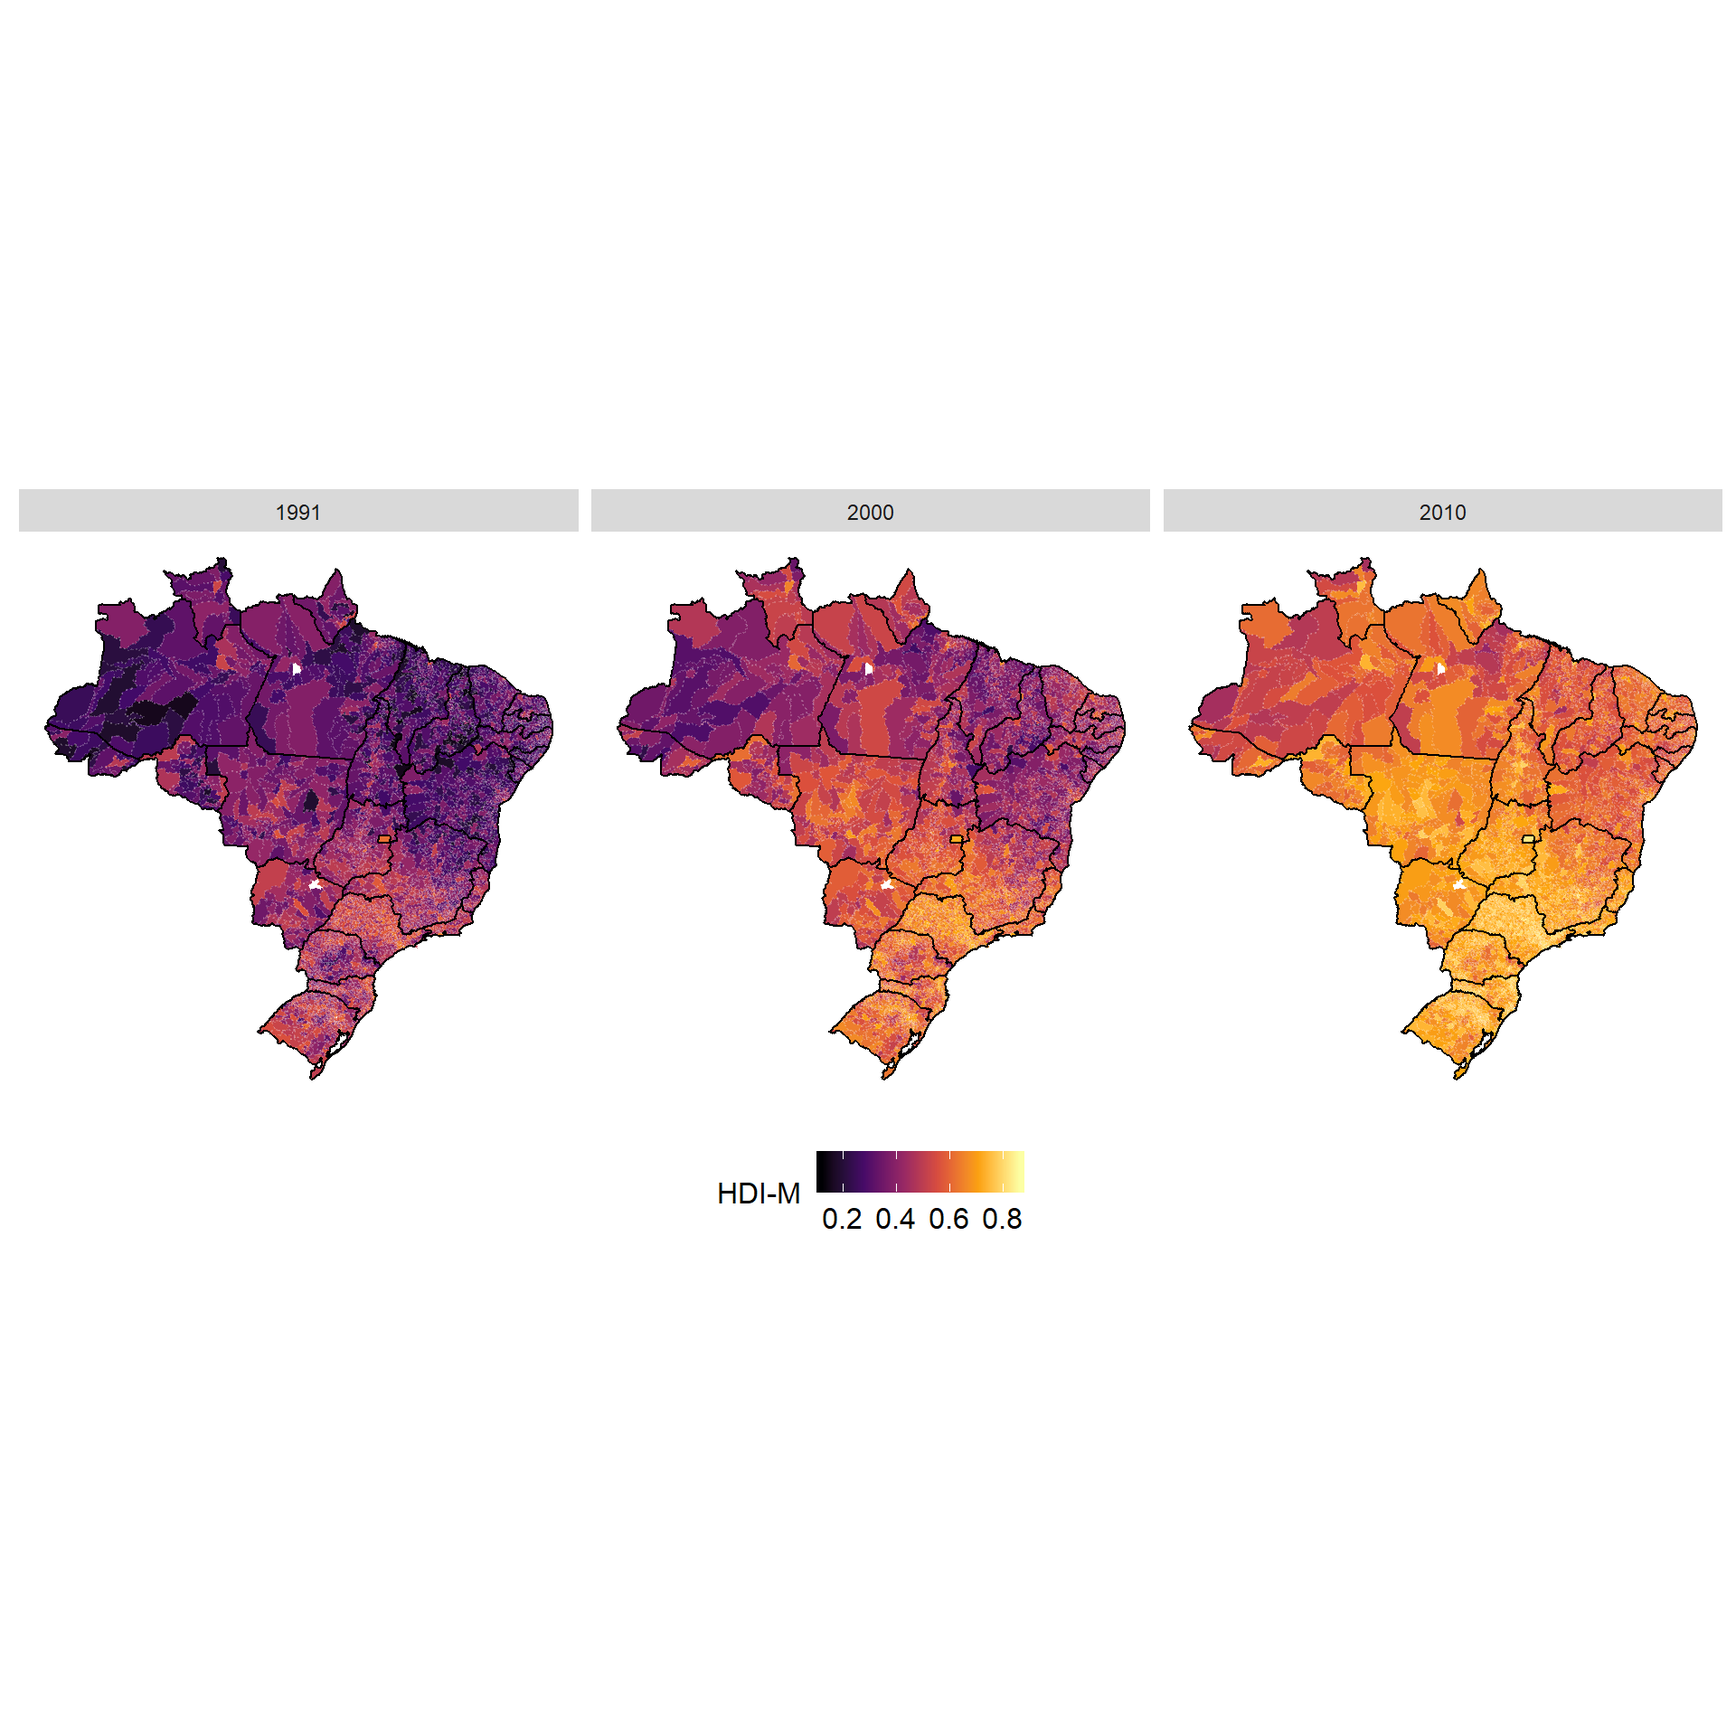
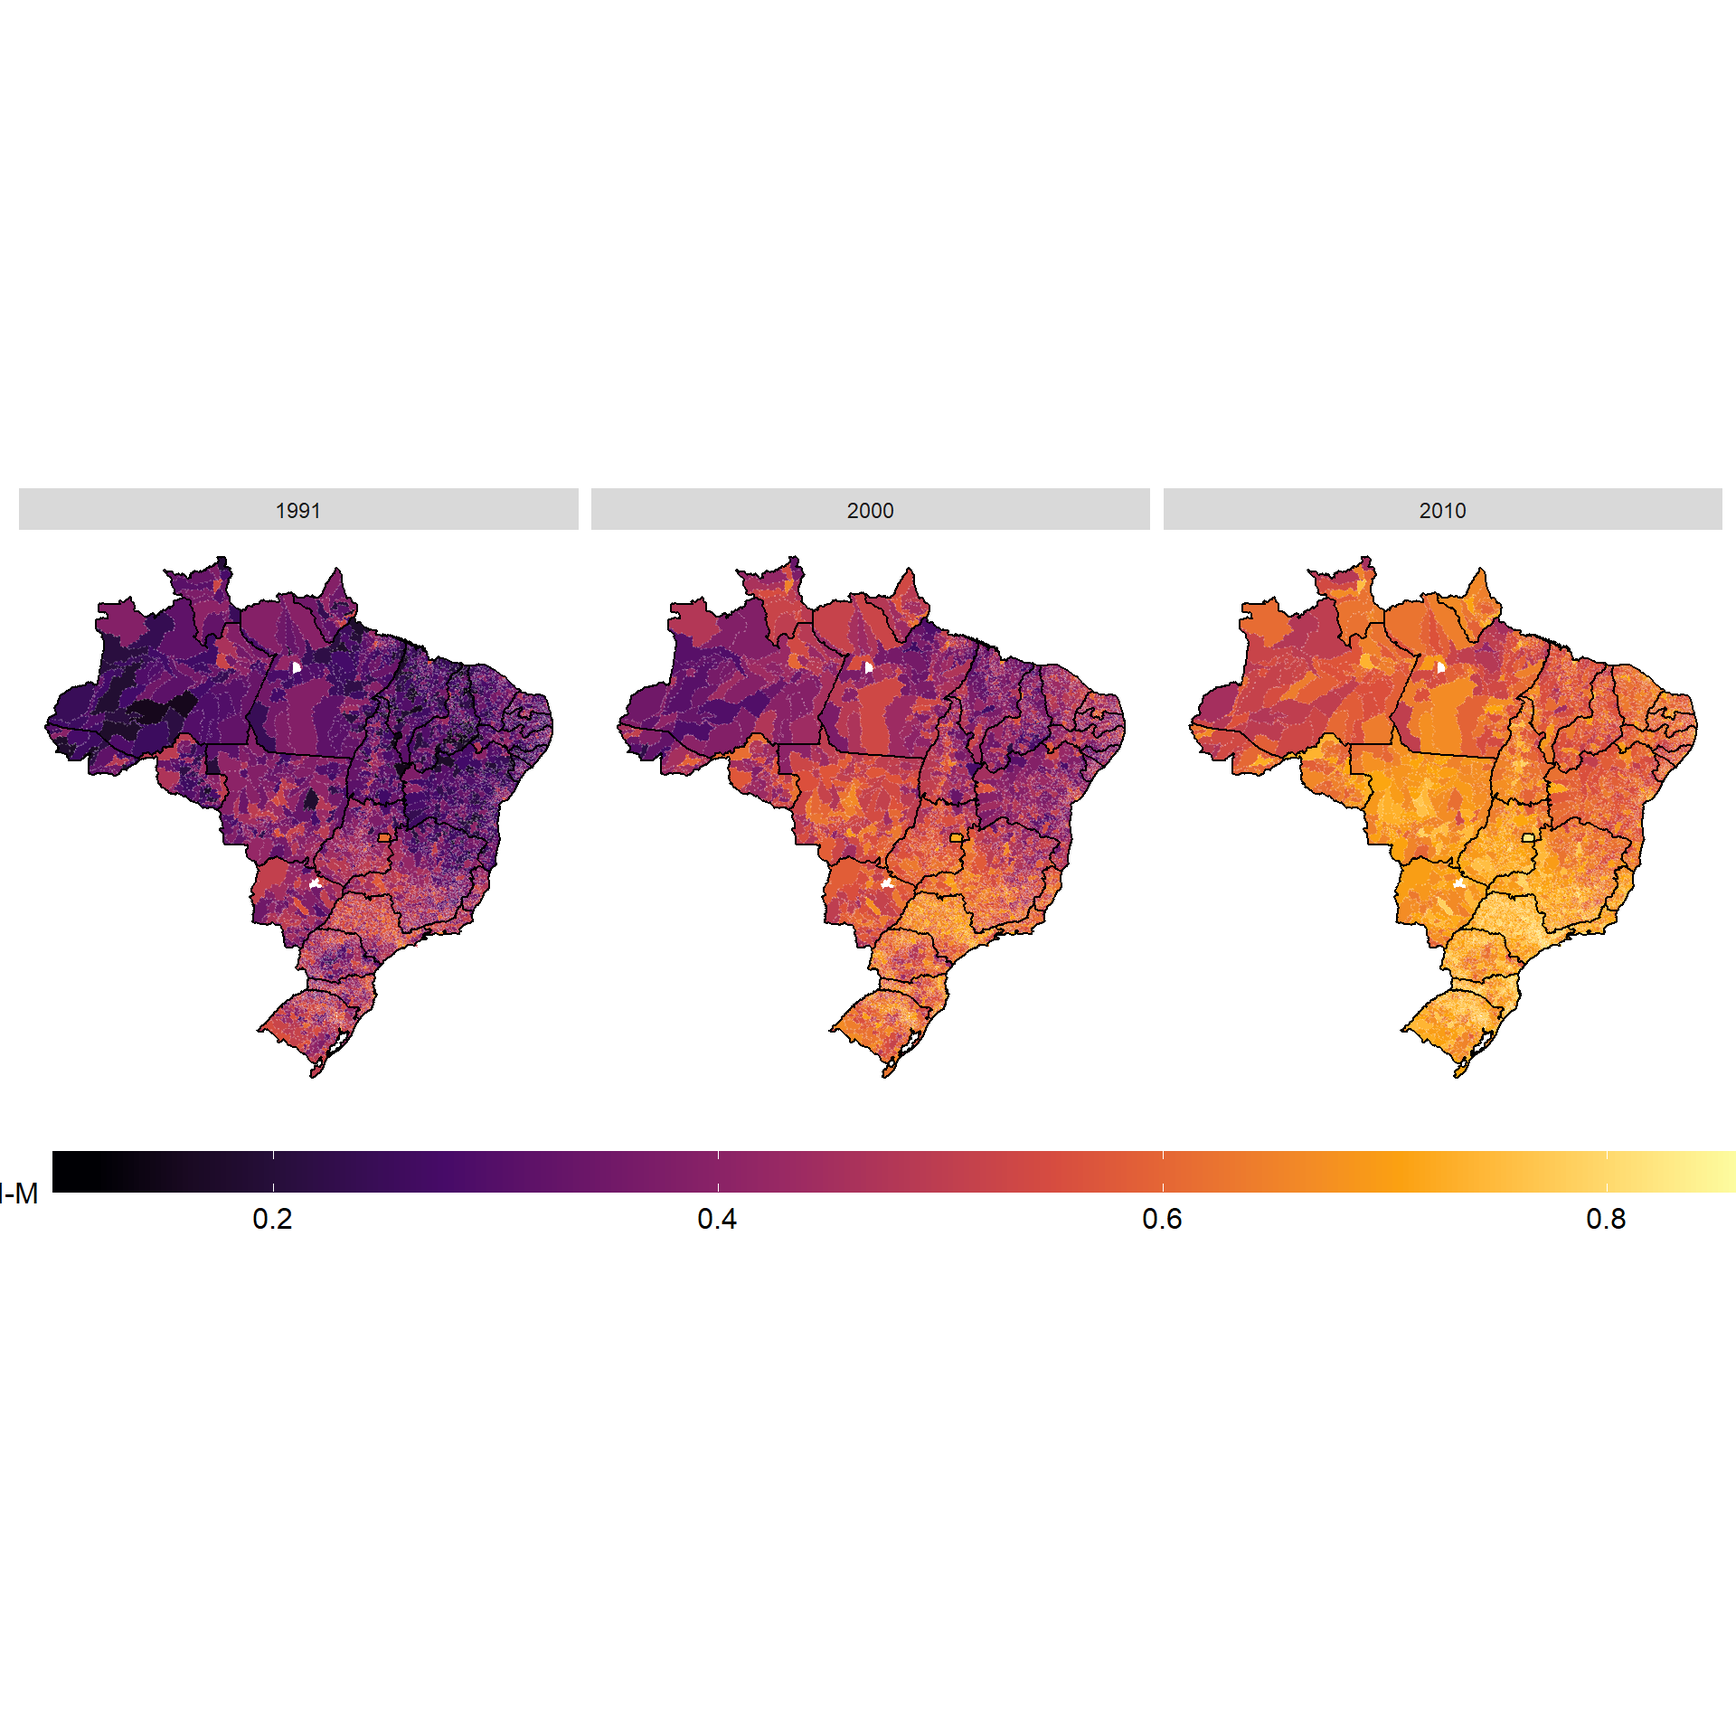
updating...

diff --git a/public/1969/12/31/distribution-of-brazilian-population-2019/index.html b/public/1969/12/31/distribution-of-brazilian-population-2019/index.html
@@ -1,8 +1,82 @@
----
-title: "Distribution of brazilian population (2019)"
-date: 03
----
+<!DOCTYPE html>
+<html lang="en-us">
+  <head>
+    <meta charset="utf-8">
+<meta name="viewport" content="width=device-width, initial-scale=1.0">
+<meta name="generator" content="Hugo 0.64.1" />
 
+
+<title>Distribution of brazilian population (2019) - Rony Coelho</title>
+<meta property="og:title" content="Distribution of brazilian population (2019) - Rony Coelho">
+
+
+  <link href='/favicon.ico' rel='icon' type='image/x-icon'/>
+
+
+
+  
+
+
+
+
+
+
+
+
+<link href='//cdnjs.cloudflare.com/ajax/libs/highlight.js/9.12.0/styles/github.min.css' rel='stylesheet' type='text/css' />
+
+
+
+<link rel="stylesheet" href="/css/fonts.css" media="all">
+<link rel="stylesheet" href="/css/main.css" media="all">
+
+
+
+  </head>
+  <body>
+    <div class="wrapper">
+      <header class="header">
+        <nav class="nav">
+  <a href="/" class="nav-logo">
+    <img src="/images/logo.png"
+         width="50"
+         height="50"
+         alt="Logo">
+  </a>
+
+  <ul class="nav-links">
+    
+    <li><a href="/">Home</a></li>
+    
+    <li><a href="/about/">About</a></li>
+    
+    <li><a href="/mypublications/">Publications</a></li>
+    
+    <li><a href="https://github.com/ronycoelho">GitHub</a></li>
+    
+    <li><a href="http://buscatextual.cnpq.br/buscatextual/visualizacv.do?id=K4454705J6">CV</a></li>
+    
+  </ul>
+</nav>
+
+      </header>
+
+
+<main class="content" role="main">
+
+  <article class="article">
+    
+    <span class="article-duration">1 min read</span>
+    
+
+    <h1 class="article-title">Distribution of brazilian population (2019)</h1>
+
+    
+    <span class="article-date"></span>
+    
+
+    <div class="article-content">
+      
 
 
 <pre class="r"><code>knitr::opts_chunk$set(echo = TRUE, warning=F,  message=FALSE)</code></pre>
@@ -64,3 +138,47 @@ ggplot(data = dados_brasil) +
 </div>
 </div>
 </div>
+
+    </div>
+  </article>
+
+  
+
+
+</main>
+
+      <footer class="footer">
+        <ul class="footer-links">
+          <li>
+            <a href="/index.xml" type="application/rss+xml" target="_blank">RSS feed</a>
+          </li>
+          <li>
+            <a href="https://gohugo.io/" class="footer-links-kudos">Made with <img src="/images/hugo-logo.png" alt="Img link to Hugo website" width="22" height="22"></a>
+          </li>
+        </ul>
+      </footer>
+
+    </div>
+    
+
+
+
+<script src="//cdnjs.cloudflare.com/ajax/libs/highlight.js/9.12.0/highlight.min.js"></script>
+
+
+
+<script src="//cdnjs.cloudflare.com/ajax/libs/highlight.js/9.12.0/languages/r.min.js"></script>
+<script src="//cdnjs.cloudflare.com/ajax/libs/highlight.js/9.12.0/languages/yaml.min.js"></script>
+<script>hljs.configure({languages: []}); hljs.initHighlightingOnLoad();</script>
+
+
+
+    
+<script src="/js/math-code.js"></script>
+<script async src="//cdnjs.cloudflare.com/ajax/libs/mathjax/2.7.5/MathJax.js?config=TeX-MML-AM_CHTML"></script>
+
+
+    
+  </body>
+</html>
+

diff --git a/public/index.html b/public/index.html
@@ -61,7 +61,13 @@
 
 
 <main class="content" role="main">
-  <h5 class="note"><span>Hey there, this is my personal website. Welcome! It works like a Portfolio. Here I am publishing some of my academic works, but not only this. I am also posting some notes, curiosities and things of personal interest that can have no much sense without context. Anyway, if you would like to know more and contact me, please, feel free: coelhorgs@yahoo.com.br <span></h5>
+  <style>
+body {
+text-align: justify}
+</style>
+  <h5 class="note"><span>Hey there, this is my personal website. Welcome! It works as a Portfolio. Here I am publishing some of my academic works, but not only. I am also posting some notes, curiosities and things of personal interest, that sometimes can have no much sense without context. Anyway, if you would like to know more or contact me, please, feel free: coelhorgs@yahoo.com.br
+  <p>(Site best seen on Desktop version)</p>
+  <span></h5>
   
   
   <div class="archive">
@@ -73,12 +79,17 @@
     <h2 class="archive-title"></h2>
     
     <article class="archive-item">
-      <a href="/2020/02/16/distribution-of-brazilian-population-2019/" class="archive-item-link">Distribution of brazilian population (2019)</a>
+      <a href="/1969/12/31/scartterplot-with-link-to-dinamic-version/" class="archive-item-link">Scartterplot (with link to dinamic version)</a>
       
     </article>
     
     <article class="archive-item">
-      <a href="/1/01/01/hdi-m-and-gini-in-brazil-1991-2000-2010/" class="archive-item-link">HDI-M and GINI in Brazil 
+      <a href="/1969/12/31/distribution-of-brazilian-population-2019/" class="archive-item-link">Distribution of brazilian population (2019)</a>
+      
+    </article>
+    
+    <article class="archive-item">
+      <a href="/1969/12/31/hdi-m-and-gini-in-brazil-1991-2000-2010/" class="archive-item-link">HDI-M and GINI in Brazil 
  (1991, 2000, 2010)</a>
       
     </article>

diff --git a/public/post/index.html b/public/post/index.html
@@ -60,7 +60,13 @@
 
 
 <main class="content" role="main">
-  <h5 class="note"><span>Hey there, this is my personal website. Welcome! It works like a Portfolio. Here I am publishing some of my academic works, but not only this. I am also posting some notes, curiosities and things of personal interest that can have no much sense without context. Anyway, if you would like to know more and contact me, please, feel free: coelhorgs@yahoo.com.br <span></h5>
+  <style>
+body {
+text-align: justify}
+</style>
+  <h5 class="note"><span>Hey there, this is my personal website. Welcome! It works as a Portfolio. Here I am publishing some of my academic works, but not only. I am also posting some notes, curiosities and things of personal interest, that sometimes can have no much sense without context. Anyway, if you would like to know more or contact me, please, feel free: coelhorgs@yahoo.com.br
+  <p>(Site best seen on Desktop version)</p>
+  <span></h5>
   
   
   <div class="archive">
@@ -70,12 +76,17 @@
     <h2 class="archive-title"></h2>
     
     <article class="archive-item">
-      <a href="/2020/02/16/distribution-of-brazilian-population-2019/" class="archive-item-link">Distribution of brazilian population (2019)</a>
+      <a href="/1969/12/31/scartterplot-with-link-to-dinamic-version/" class="archive-item-link">Scartterplot (with link to dinamic version)</a>
       
     </article>
     
     <article class="archive-item">
-      <a href="/1/01/01/hdi-m-and-gini-in-brazil-1991-2000-2010/" class="archive-item-link">HDI-M and GINI in Brazil 
+      <a href="/1969/12/31/distribution-of-brazilian-population-2019/" class="archive-item-link">Distribution of brazilian population (2019)</a>
+      
+    </article>
+    
+    <article class="archive-item">
+      <a href="/1969/12/31/hdi-m-and-gini-in-brazil-1991-2000-2010/" class="archive-item-link">HDI-M and GINI in Brazil 
  (1991, 2000, 2010)</a>
       
     </article>

diff --git a/public/mypublications/index.html b/public/mypublications/index.html
@@ -67,9 +67,11 @@
     
 
     <div class="article-content">
-      <h2 id="articles-and-papers-published">Articles and papers published</h2>
+      <!-- raw HTML omitted -->
+<!-- raw HTML omitted -->
+<h2 id="articles-and-papers-published">Articles and papers published</h2>
 <blockquote>
-<p>ALMEIDA, Carla C.; COELHO, Rony; MARTELLI, Carla G. G.;  LUCHMANN, Lígia H. H.A participação conselhista no Brasil. Uma proposta de análise por meio do Índice de Potencial Participativo dos Conselhos nos municípios (IPPC). <a href="https://pdpp2019.sinteseeventos.com.br/simposio/view?ID_SIMPOSIO=18">(Acess here)</a></p>
+<p>ALMEIDA, Carla C.; COELHO, Rony; MARTELLI, Carla G. G.;  LUCHMANN, Lígia H. H. A participação conselhista no Brasil. Uma proposta de análise por meio do Índice de Potencial Participativo dos Conselhos nos municípios (IPPC). <a href="https://pdpp2019.sinteseeventos.com.br/simposio/view?ID_SIMPOSIO=18">(Acess here)</a></p>
 </blockquote>
 <blockquote>
 <p>COELHO, RONY. Legislação Participativa: atores, iniciativas e processo legislativo. Interseções (UERJ), v. 17, p. 189-225, 2015. <a href="https://www.e-publicacoes.uerj.br/index.php/intersecoes/article/view/18053">(Acess here)</a></p>
@@ -106,7 +108,6 @@
 <blockquote>
 <p>COELHO, Rony. O processo de descentralização intramunicipal em São Paulo.</p>
 </blockquote>
-<h2 id="working-in-progress-1">Working in progress</h2>
 
     </div>
   </article>

diff --git a/public/1/01/01/scartterplot-with-link-to-dinamic-version/index.html b/public/1/01/01/scartterplot-with-link-to-dinamic-version/index.html
@@ -6,8 +6,10 @@
 <meta name="generator" content="Hugo 0.64.1" />
 
 
-<title>About - Rony Coelho</title>
-<meta property="og:title" content="About - Rony Coelho">
+<title>Scartterplot 
+(with link to dinamic version) - test  - Rony Coelho</title>
+<meta property="og:title" content="Scartterplot 
+(with link to dinamic version) - Rony Coelho">
 
 
   <link href='/favicon.ico' rel='icon' type='image/x-icon'/>
@@ -61,15 +63,26 @@
 
   <article class="article">
     
+    <span class="article-duration">1 min read</span>
+    
 
-    <h1 class="article-title">About</h1>
+    <h1 class="article-title">Scartterplot 
+(with link to dinamic version)</h1>
 
+    
+    <span class="article-date"></span>
     
 
     <div class="article-content">
-      <!-- raw HTML omitted -->
-<!-- raw HTML omitted -->
-<p>This is a &ldquo;hello world&rdquo; example website for the <a href="https://github.com/rstudio/blogdown"><strong>blogdown</strong></a> package. The theme was forked from <a href="https://github.com/jrutheiser/hugo-lithium-theme">@jrutheiser/hugo-lithium-theme</a> and modified by <a href="https://github.com/yihui/hugo-lithium">Yihui Xie</a>.</p>
+      
+
+
+<p>Go to the <a href="https://rpubs.com/r_rabbit/512787">dinamic version</a> of the plot on my Rpubs page</p>
+<div class="figure">
+<img src="/post/Scartterplot_files/scarterplot.png" />
+
+</div>
+<p>*Confidential data</p>
 
     </div>
   </article>

diff --git a/public/1969/12/31/scartterplot-with-link-to-dinamic-version/index.html b/public/1969/12/31/scartterplot-with-link-to-dinamic-version/index.html
@@ -6,8 +6,8 @@
 <meta name="generator" content="Hugo 0.64.1" />
 
 
-<title>About - Rony Coelho</title>
-<meta property="og:title" content="About - Rony Coelho">
+<title>Scartterplot (with link to dinamic version) - Rony Coelho</title>
+<meta property="og:title" content="Scartterplot (with link to dinamic version) - Rony Coelho">
 
 
   <link href='/favicon.ico' rel='icon' type='image/x-icon'/>
@@ -61,15 +61,25 @@
 
   <article class="article">
     
+    <span class="article-duration">1 min read</span>
+    
 
-    <h1 class="article-title">About</h1>
+    <h1 class="article-title">Scartterplot (with link to dinamic version)</h1>
 
+    
+    <span class="article-date"></span>
     
 
     <div class="article-content">
-      <!-- raw HTML omitted -->
-<!-- raw HTML omitted -->
-<p>This is a &ldquo;hello world&rdquo; example website for the <a href="https://github.com/rstudio/blogdown"><strong>blogdown</strong></a> package. The theme was forked from <a href="https://github.com/jrutheiser/hugo-lithium-theme">@jrutheiser/hugo-lithium-theme</a> and modified by <a href="https://github.com/yihui/hugo-lithium">Yihui Xie</a>.</p>
+      
+
+
+<p>Go to the <a href="https://rpubs.com/r_rabbit/512787">dinamic version</a> of the plot on my Rpubs page</p>
+<div class="figure">
+<img src="/post/Scartterplot_files/scarterplot.png" />
+
+</div>
+<p>*Confidential data</p>
 
     </div>
   </article>

diff --git a/themes/hugo-lithium/layouts/_default/list.html b/themes/hugo-lithium/layouts/_default/list.html
@@ -1,7 +1,13 @@
 {{ partial "header.html" . }}
 
 <main class="content" role="main">
-  <h5 class="note"><span>Hey there, this is my personal website. Welcome! It works like a Portfolio. Here I am publishing some of my academic works, but not only this. I am also posting some notes, curiosities and things of personal interest that can have no much sense without context. Anyway, if you would like to know more and contact me, please, feel free: coelhorgs@yahoo.com.br <span></h5>
+  <style>
+body {
+text-align: justify}
+</style>
+  <h5 class="note"><span>Hey there, this is my personal website. Welcome! It works as a Portfolio. Here I am publishing some of my academic works, but not only. I am also posting some notes, curiosities and things of personal interest, that sometimes can have no much sense without context. Anyway, if you would like to know more or contact me, please, feel free: coelhorgs@yahoo.com.br
+  <p>(Site best seen on Desktop version)</p>
+  <span></h5>
   
   {{ if .Content }}
   <article class="article">

diff --git a/content/post/idh_gini.html b/content/post/idh_gini.html
@@ -1,6 +1,6 @@
 ---
 title: "HDI-M and GINI in Brazil \n (1991, 2000, 2010)"
-output: html_document
+date: 02
 ---
 
 
@@ -35,7 +35,7 @@ dt &lt;- brmap_municipio %&gt;%
         legend.position = &quot;bottom&quot;, 
         #legend.justification = c(1, 1),
         legend.direction = &quot;horizontal&quot;,
-        legend.margin = margin(5, 50, 5, 50),
+        legend.key.width = unit (2, &quot;in&quot;),
         legend.background = element_blank(),
         legend.text = element_text(size = 12),
         legend.title = element_text(size=12),
@@ -54,8 +54,7 @@ dt &lt;- brmap_municipio %&gt;%
 </div>
 <div id="plot-gini-1991-2000-2010" class="section level1">
 <h1>Plot GINI (1991, 2000, 2010)</h1>
-<pre class="r"><code>X11()
-ggplot(dt)+
+<pre class="r"><code>ggplot(dt)+
   geom_sf(aes(fill=gini), colour = alpha(&quot;white&quot;, .2), lty=3)+
   scale_fill_viridis_c(&quot;GINI&quot;, option = &quot;inferno&quot;, direction = -1)+
   geom_sf(data=brmap::brmap_brasil, fill=NA, color = &quot;black&quot;)+

diff --git a/public/categories/index.html b/public/categories/index.html
@@ -60,7 +60,13 @@
 
 
 <main class="content" role="main">
-  <h5 class="note"><span>Hey there, this is my personal website. Welcome! It works like a Portfolio. Here I am publishing some of my academic works, but not only this. I am also posting some notes, curiosities and things of personal interest that can have no much sense without context. Anyway, if you would like to know more and contact me, please, feel free: coelhorgs@yahoo.com.br <span></h5>
+  <style>
+body {
+text-align: justify}
+</style>
+  <h5 class="note"><span>Hey there, this is my personal website. Welcome! It works as a Portfolio. Here I am publishing some of my academic works, but not only. I am also posting some notes, curiosities and things of personal interest, that sometimes can have no much sense without context. Anyway, if you would like to know more or contact me, please, feel free: coelhorgs@yahoo.com.br
+  <p>(Site best seen on Desktop version)</p>
+  <span></h5>
   
   
   <div class="archive">

diff --git a/public/tags/index.html b/public/tags/index.html
@@ -60,7 +60,13 @@
 
 
 <main class="content" role="main">
-  <h5 class="note"><span>Hey there, this is my personal website. Welcome! It works like a Portfolio. Here I am publishing some of my academic works, but not only this. I am also posting some notes, curiosities and things of personal interest that can have no much sense without context. Anyway, if you would like to know more and contact me, please, feel free: coelhorgs@yahoo.com.br <span></h5>
+  <style>
+body {
+text-align: justify}
+</style>
+  <h5 class="note"><span>Hey there, this is my personal website. Welcome! It works as a Portfolio. Here I am publishing some of my academic works, but not only. I am also posting some notes, curiosities and things of personal interest, that sometimes can have no much sense without context. Anyway, if you would like to know more or contact me, please, feel free: coelhorgs@yahoo.com.br
+  <p>(Site best seen on Desktop version)</p>
+  <span></h5>
   
   
   <div class="archive">

diff --git a/content/post/Scartterplot.html b/content/post/Scartterplot.html
@@ -1,0 +1,13 @@
+---
+title: "Scartterplot (with link to dinamic version)"
+date: 03
+---
+
+
+
+<p>Go to the <a href="https://rpubs.com/r_rabbit/512787">dinamic version</a> of the plot on my Rpubs page</p>
+<div class="figure">
+<img src="/post/Scartterplot_files/scarterplot.png" />
+
+</div>
+<p>*Confidential data</p>
